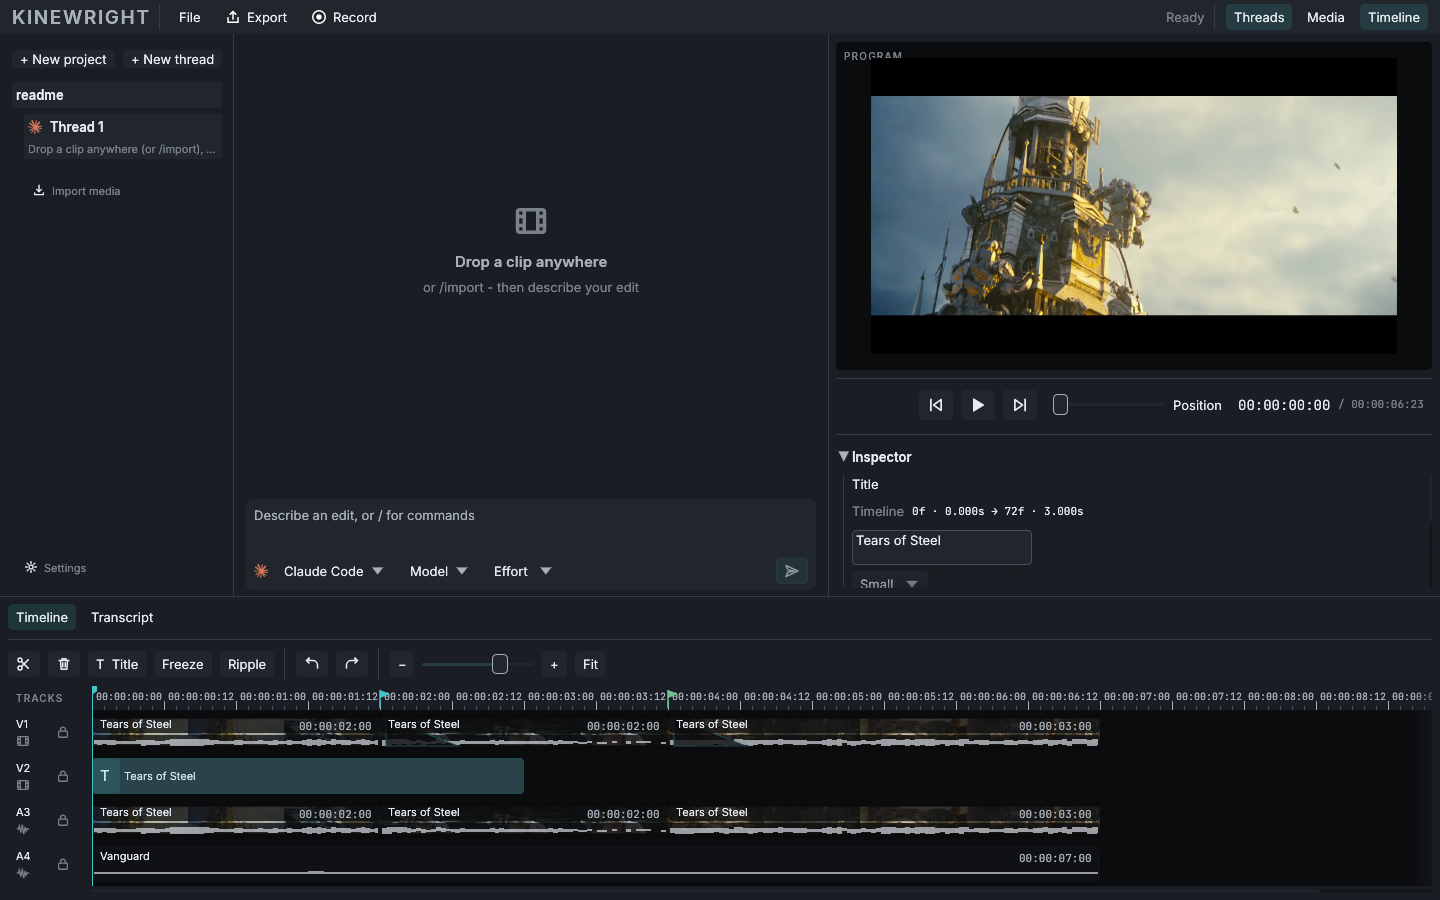
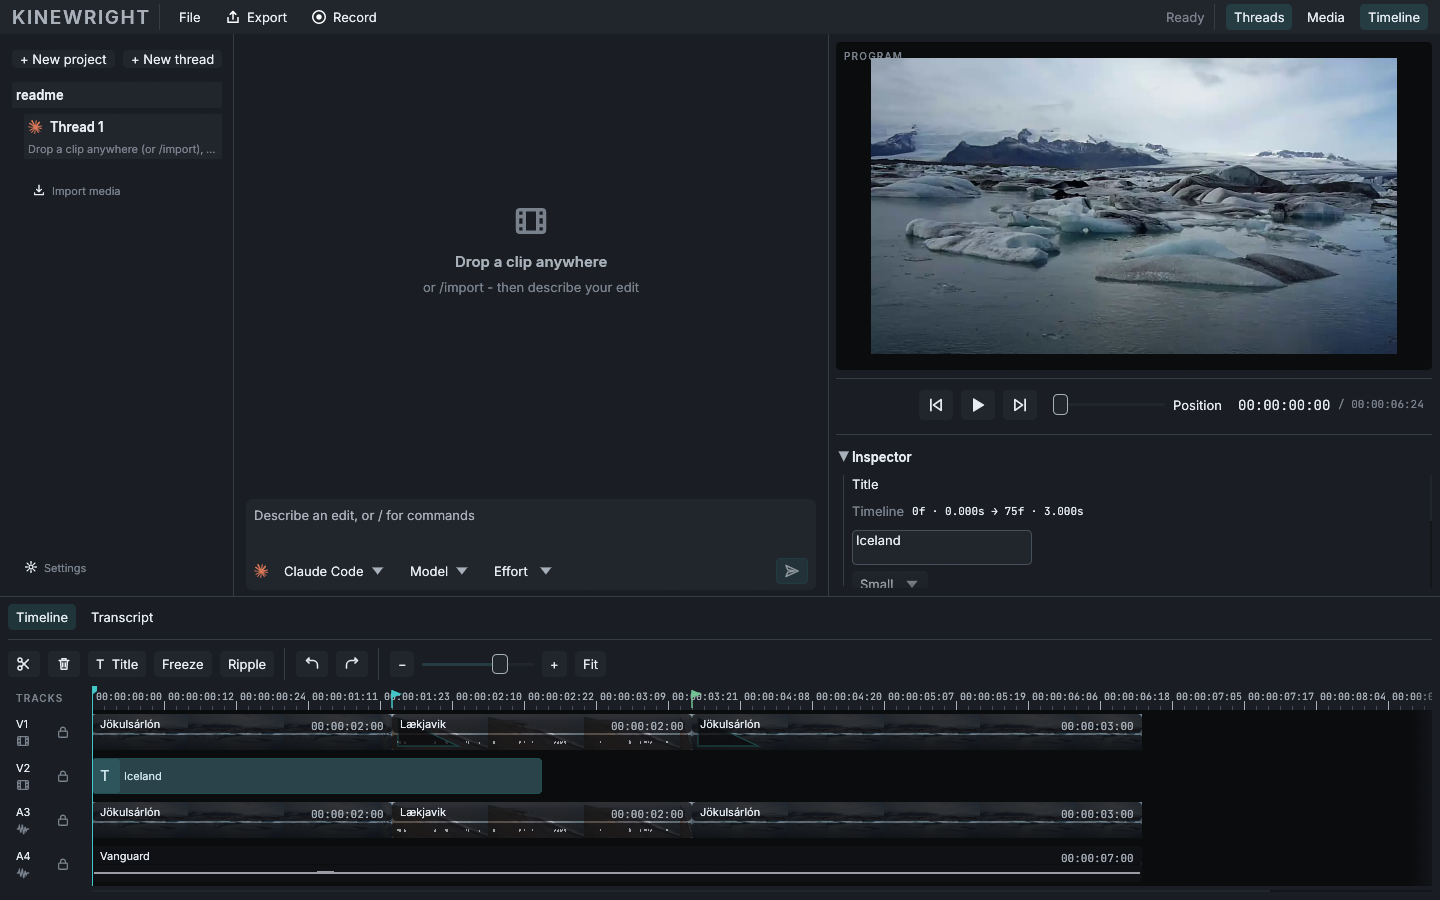
Swap the README screenshot to licensed Iceland landscape footage.
Use a Jökulsárlón glacier cut and Lækjavik coast so the hero frame is nature, not the previous film clip.

Changed region(s): [[0.5938, 0.0622, 0.9688, 0.4044], [0.0625, 0.7467, 0.8125, 0.9644], [0.5938, 0.5911, 0.6562, 0.6222]]

diff --git a/README.md b/README.md
@@ -16,10 +16,10 @@ Kinewright is a **native desktop** video editor written in Rust — the same fas
 > Early development. The editor works end to end — import, cut, composite, export, agent editing, transcript editing — but expect rough edges.
 
 <p align="center">
-  <img src="docs/assets/kinewright-editor.png" width="960" alt="Kinewright with a Tears of Steel cut on the timeline, program monitor, and agent chat">
+  <img src="docs/assets/kinewright-editor.png" width="960" alt="Kinewright with an Iceland landscape cut on the timeline, program monitor, and agent chat">
 </p>
 
-<p align="center"><sub>Preview footage: <a href="https://mango.blender.org">Tears of Steel</a> clip, (CC) Blender Foundation | mango.blender.org, <a href="https://creativecommons.org/licenses/by/3.0/">CC BY 3.0</a>. Music: <a href="https://www.scottbuckley.com.au/library/vanguard/">Vanguard</a> by Scott Buckley, <a href="https://creativecommons.org/licenses/by/4.0/">CC BY 4.0</a>.</sub></p>
+<p align="center"><sub>Preview footage: <a href="https://commons.wikimedia.org/wiki/File:Brei%C3%B0armerkurj%C3%B6kull_glacier_lagoon.webm">Breiðarmerkurjökull glacier lagoon</a> by Jason Eppink, <a href="https://creativecommons.org/licenses/by/2.0/">CC BY 2.0</a>; <a href="https://commons.wikimedia.org/wiki/File:Ocean_waves_at_L%C3%A6kjavik_beach,_Iceland.webm">ocean waves at Lækjavik beach</a> by Alexander Grebenkov, <a href="https://creativecommons.org/licenses/by/3.0/">CC BY 3.0</a>. Music: <a href="https://www.scottbuckley.com.au/library/vanguard/">Vanguard</a> by Scott Buckley, <a href="https://creativecommons.org/licenses/by/4.0/">CC BY 4.0</a>.</sub></p>
 
 ## What makes it different
 
